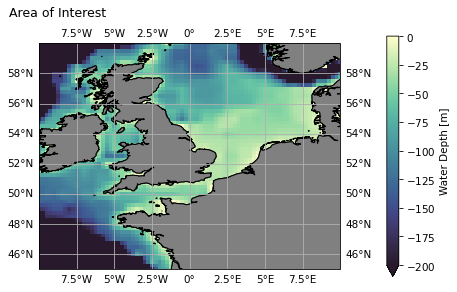
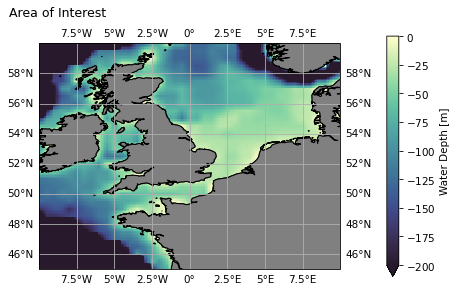
update interpolation

diff --git a/theory/theory_part3.py b/theory/theory_part3.py
@@ -126,14 +126,12 @@ if __name__ == "__main__":
                 data["longitude"].min(),
                 data["longitude"].max(),
                 (data["longitude"].size - 1) * interpolate + 1,
-            )
-        )
-        data = data.interp(
+            ),
             latitude=np.linspace(
                 data["latitude"].min(),
                 data["latitude"].max(),
                 (data["latitude"].size - 1) * interpolate + 1,
-            )
+            ),
         )
 
     # Parameters
